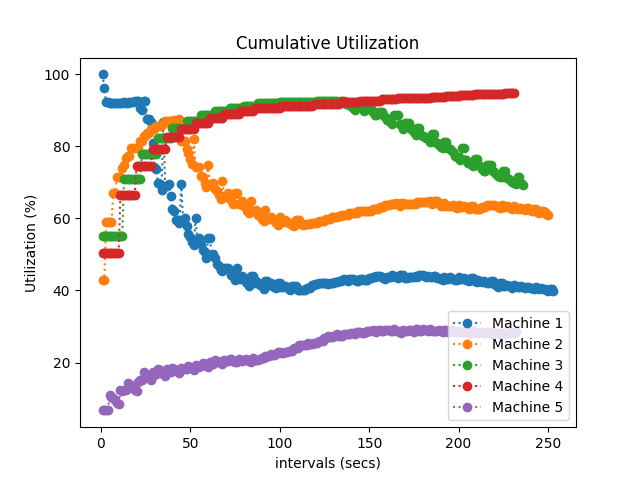
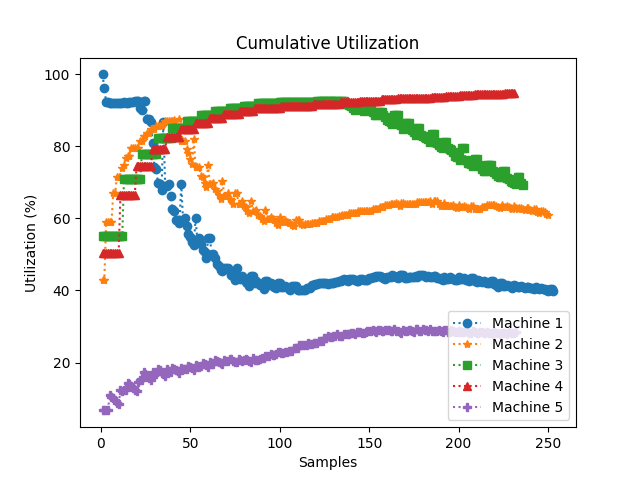
final paper

diff --git a/Digital Twin/dtwinpylib/dtwinpy/tester.py b/Digital Twin/dtwinpylib/dtwinpy/tester.py
@@ -1589,6 +1589,14 @@ class Plotter():
     def plot_utilization(self, utilization_dict):
         plt.clf()
         linestyle = "dotted"
+        markers = {
+            "Machine 1": "o",
+            "Machine 2": "*",
+            "Machine 3": "s",
+            "Machine 4": "^",
+            "Machine 5": "P"
+        }
+
         # ----------- PLOT OF ALL MACHINES TOEGETHER -----------
         for key_name in utilization_dict:
             #--- Create the x vector
@@ -1599,7 +1607,7 @@ class Plotter():
             plt.plot(
                 intervals_x,
                 utilization_dict[key_name],
-                marker='o',
+                marker=markers[key_name],
                 linestyle= linestyle,
                 label= key_name
             )
@@ -1607,7 +1615,7 @@ class Plotter():
             #--- Add complements
             self.ADD_complemts(
                 title= "Cumulative Utilization",
-                xlable= "intervals (secs)",
+                xlable= "Samples",
                 ylable= "Utilization (%)"
             )
         

diff --git a/Digital Twin/replication_analysis.py b/Digital Twin/replication_analysis.py
@@ -28,7 +28,7 @@ TODO:
 database_path = "data_generation/4.11.15.46/databases/exp_database.db"
 
 #-- Use Case 2: with Digital Twin
-#database_path = "data_generation/4.11.17.26/databases/exp_database.db"
+database_path = "data_generation/4.11.17.26/databases/exp_database.db"
 
 
 #--- read the database exp_database.db and get important
@@ -212,11 +212,11 @@ plt.errorbar(partids,
 #--- Settings
 # Add labels and title
 plt.xlabel('Part ID')
-plt.ylabel('Estimated RCT [seconds]')
-plt.title('Plot RCT with Error Range')
+plt.ylabel('Estimated RCT [s]')
+plt.title('Real RCT versus Expected RCTs')
 plt.legend()
 # Display the plot
-#plt.show()
+plt.show()
 
 # ================================== Plotting ZigZag ==================================
 from dtwinpylib.dtwinpy.tester import Plotter

diff --git a/Digital Twin/plotting.py b/Digital Twin/plotting.py
@@ -64,13 +64,26 @@ def plotting(exp_ids, plots= ["plot_valid_indicators", "plot_RCT_paths", "plot_q
                 plotter.plot_RCTtracking()
 
 ############# Running #############
+
+#-- Use Case 1: without Digital Twin
+database_path = "data_generation/4.11.15.46/databases/exp_database.db"
+
+#-- Use Case 2: with Digital Twin
+database_path = "data_generation/4.11.17.26/databases/exp_database.db"
+
+
 exp_ids = ["4.11.15.46", "4.11.17.26"]
 exp_ids = ["4.11.15.46"]
-exp_ids = ['6.26.18.33']
+exp_ids = ['4.11.15.46', '4.11.17.26']
+
+
+
 
 #plots= ["plot_comparative_RCT", "plot_utilization", "plot_RCTtracking"]
-plots= []
+plots= ["plot_utilization"]
+
 plotting(
-    exp_ids= exp_ids
+    exp_ids= exp_ids,
+    plots= plots
 )
 
